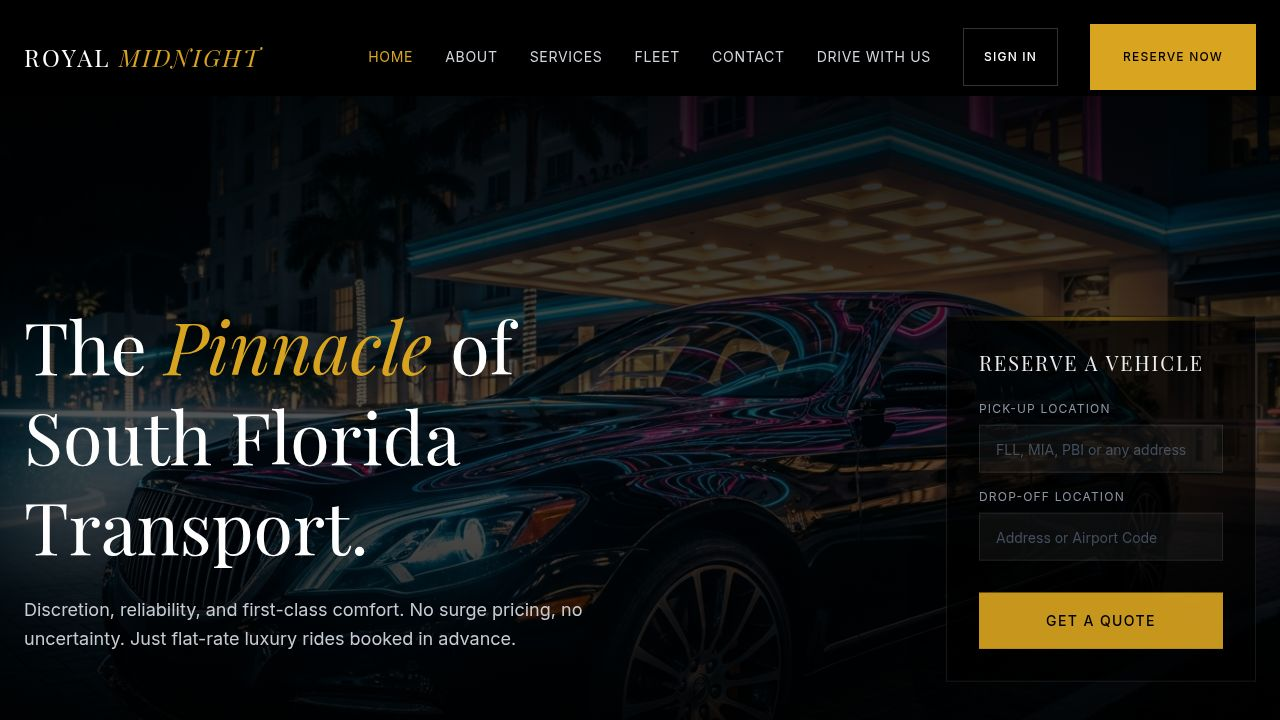
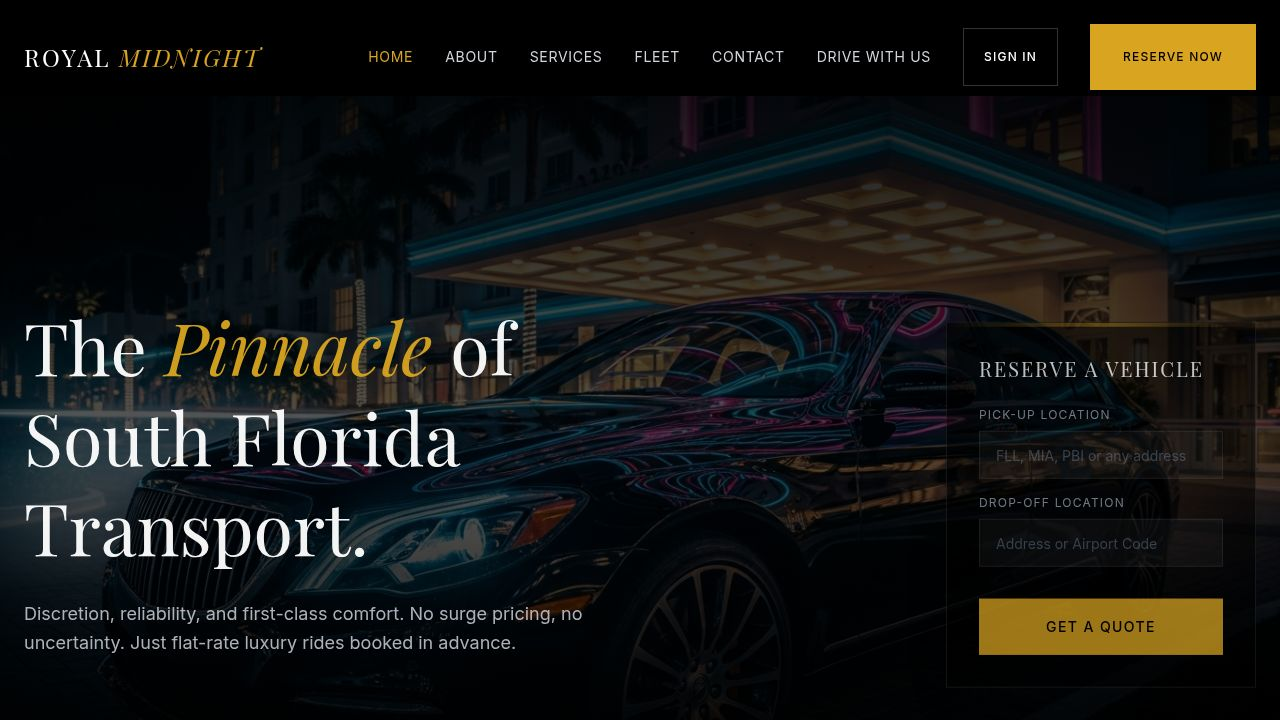
Fix mobile payment — track PaymentElement completion & inline error handling
Task #19: stripe.confirmPayment() was silently failing on Android (Pixel 9)
with no Stripe events beyond payment_intent.created.

Root cause: PaymentElement had no onChange listener. The Pay button was
enabled as soon as stripe.js loaded, not when all card fields were complete.
On Android Chrome, touch input + keyboard dismiss don't commit Stripe iframe
field values the same way as desktop Tab keypresses. When the user tapped the
external Pay button, the viewport resized (keyboard dismissal) and Stripe's
element hadn't fully captured the last edited field. confirmPayment() saw an
incomplete element and returned a client-side validation_error before any
charge request reached Stripe's servers — which is why zero charge events
appeared in the Stripe dashboard.

A secondary bug: onError() → handlePaymentError() in book.tsx called
setPaymentClientSecret(null), unmounting the form immediately. The user
never saw the error message and had to restart the entire flow to retry.

Changes to StripePaymentForm.tsx:
1. Added onChange on PaymentElement → sets isElementReady when event.complete
2. Pay button disabled until isElementReady is true (not just stripe != null)
3. Added "Enter card details above to continue" hint under the Pay button
4. card_error / validation_error: show inline below the button, keep form mounted
5. Other errors (api_connection_error, etc.): still call onError() to reset
6. Full try/catch around confirmPayment() for unexpected exceptions
[…]

diff --git a/artifacts/royal-midnight/src/components/payment/StripePaymentForm.tsx b/artifacts/royal-midnight/src/components/payment/StripePaymentForm.tsx
@@ -7,7 +7,7 @@ import {
   useElements,
 } from "@stripe/react-stripe-js";
 import { Button } from "@/components/ui/button";
-import { Loader2, Lock } from "lucide-react";
+import { Loader2, Lock, AlertCircle } from "lucide-react";
 
 const appearance = {
   theme: "night" as const,
@@ -48,52 +48,90 @@ function CheckoutForm({ amount, returnUrl, onSuccess, onError }: CheckoutFormPro
   const stripe = useStripe();
   const elements = useElements();
   const [isProcessing, setIsProcessing] = useState(false);
+  const [isElementReady, setIsElementReady] = useState(false);
+  const [errorMessage, setErrorMessage] = useState<string | null>(null);
 
   const handleSubmit = async (e: React.FormEvent) => {
     e.preventDefault();
-    if (!stripe || !elements) return;
+    if (!stripe || !elements) {
+      setErrorMessage("Payment form is still loading. Please wait a moment and try again.");
+      return;
+    }
 
     setIsProcessing(true);
-    const { error, paymentIntent } = await stripe.confirmPayment({
-      elements,
-      redirect: "if_required",
-      confirmParams: {
-        return_url: returnUrl || window.location.href,
-      },
-    });
+    setErrorMessage(null);
 
-    if (error) {
-      onError(error.message || "Payment failed. Please try again.");
-    } else if (paymentIntent?.status === "succeeded" || paymentIntent?.status === "processing") {
-      // "processing" means the payment is underway (e.g. bank transfer / ACH).
-      // Call onSuccess so the booking confirmation page is shown immediately;
-      // the webhook will promote the booking to "pending" once the charge settles.
-      onSuccess(paymentIntent.id);
-    } else {
-      onError("Unexpected payment status. Please contact support.");
+    try {
+      const { error, paymentIntent } = await stripe.confirmPayment({
+        elements,
+        redirect: "if_required",
+        confirmParams: {
+          return_url: returnUrl || window.location.href,
+        },
+      });
+
+      if (error) {
+        const detail = error.code ? ` (${error.type}: ${error.code})` : "";
+        if (error.type === "card_error" || error.type === "validation_error") {
+          // Keep the form mounted — user can correct the card details and retry
+          setErrorMessage((error.message || "Card error.") + detail);
+        } else {
+          // Network/API errors — surface via parent so the booking state resets if needed
+          onError((error.message || "Payment failed. Please try again.") + detail);
+        }
+      } else if (paymentIntent?.status === "succeeded" || paymentIntent?.status === "processing") {
+        onSuccess(paymentIntent.id);
+      } else {
+        const status = paymentIntent?.status ?? "unknown";
+        setErrorMessage(`Unexpected payment status: ${status}. Please contact support.`);
+      }
+    } catch (err: unknown) {
+      const msg = err instanceof Error ? err.message : "An unexpected error occurred.";
+      setErrorMessage(msg);
     }
+
     setIsProcessing(false);
   };
 
+  const isDisabled = !stripe || !isElementReady || isProcessing;
+
   return (
     <form onSubmit={handleSubmit} className="space-y-6">
-      <PaymentElement />
+      <PaymentElement
+        onChange={(e) => {
+          setIsElementReady(e.complete);
+          if (e.complete) setErrorMessage(null);
+        }}
+      />
+
+      {errorMessage && (
+        <div className="flex items-start gap-2 text-sm text-red-400 p-3 border border-red-900/40 bg-red-900/10 rounded-sm">
+          <AlertCircle className="w-4 h-4 mt-0.5 shrink-0" />
+          <span>{errorMessage}</span>
+        </div>
+      )}
+
       <div className="flex items-center justify-between pt-4 border-t border-white/10">
         <div className="flex items-center gap-2 text-xs text-muted-foreground">
           <Lock className="w-3.5 h-3.5" />
           Secured by Stripe
         </div>
-        <Button
-          type="submit"
-          disabled={!stripe || isProcessing}
-          className="bg-primary text-black hover:bg-primary/90 font-medium uppercase tracking-widest text-sm px-10 py-6 rounded-none"
-        >
-          {isProcessing ? (
-            <><Loader2 className="w-4 h-4 animate-spin mr-2" /> Processing...</>
-          ) : (
-            `Pay $${amount.toFixed(2)}`
+        <div className="flex flex-col items-end gap-1">
+          <Button
+            type="submit"
+            disabled={isDisabled}
+            className="bg-primary text-black hover:bg-primary/90 font-medium uppercase tracking-widest text-sm px-10 py-6 rounded-none disabled:opacity-40"
+          >
+            {isProcessing ? (
+              <><Loader2 className="w-4 h-4 animate-spin mr-2" /> Processing...</>
+            ) : (
+              `Pay $${amount.toFixed(2)}`
+            )}
+          </Button>
+          {!isElementReady && !isProcessing && stripe && (
+            <p className="text-xs text-gray-600">Enter card details above to continue</p>
           )}
-        </Button>
+        </div>
       </div>
     </form>
   );
@@ -109,7 +147,6 @@ interface StripePaymentFormProps {
 }
 
 export function StripePaymentForm({ clientSecret, publishableKey, amount, returnUrl, onSuccess, onError }: StripePaymentFormProps) {
-  // Memoize so the Stripe instance isn't re-created on every parent render
   const stripePromise = useMemo(() => loadStripe(publishableKey), [publishableKey]);
 
   return (
